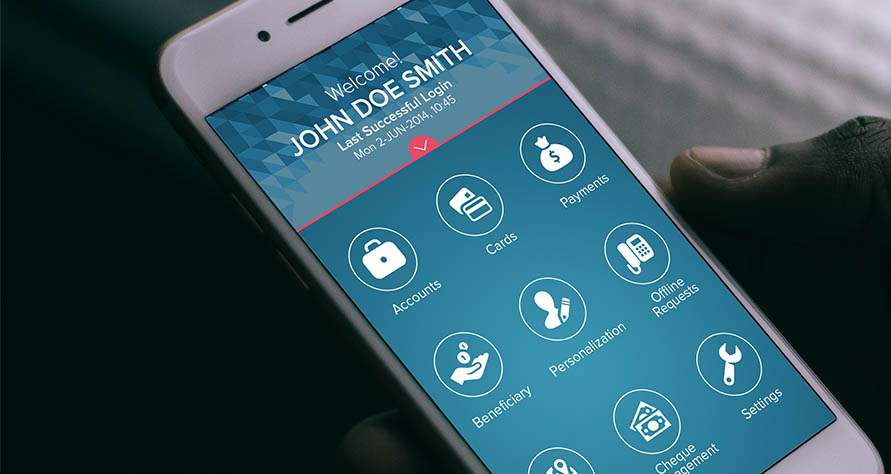
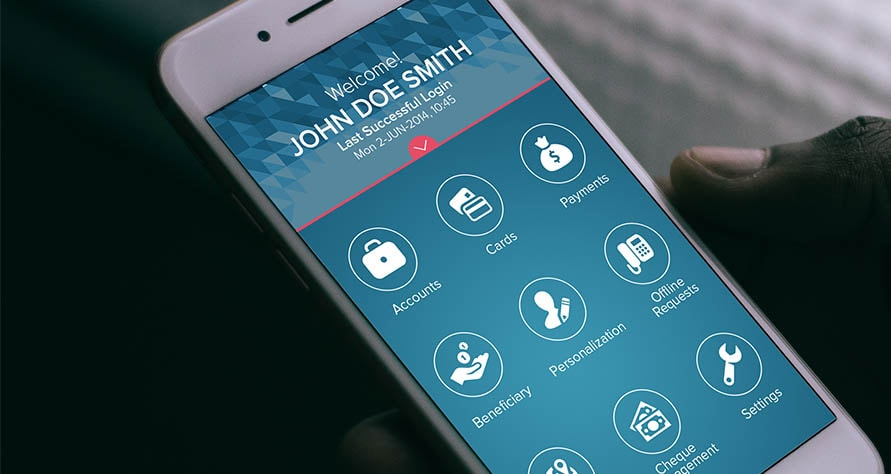
Compressed the side bar images. Implemented the redirect functionality of the sidebar

diff --git a/index.html b/index.html
@@ -114,10 +114,10 @@
                             dislike posts in a group. Users can also make a guess on a particular post about the person
                             who posted it. If it's correct user will get reward points.
                         </p>
-                        <h5>Participation</h5>
+                        <!--<h5>Participation</h5>
                         <p>
                             Researcher, Interaction Designer, UI Designer, Motion Designer
-                        </p>
+                        </p>-->
                         <button class="bn-btn light" data-view-process data-detail-page="alibi-detail-page">View Process</button>
                     </div>
                     <div class="media">
@@ -136,10 +136,10 @@
                             Best hotels is the re-design of a popular accommodation website "Bookings.com". This website
                             is the part of my course work for Interactive Web Design 715.
                         </p>
-                        <h5>Participation</h5>
+                        <!--<h5>Participation</h5>
                         <p>
                             Interaction Designer, UI Designer, Researcher
-                        </p>
+                        </p>-->
                         <button class="bn-btn light">View Process</button>
                     </div>
                     <div class="media">
@@ -159,10 +159,10 @@
                             utility bills, cheques, cards and online transfers. User can also search for the nearest
                             ATM locations.
                         </p>
-                        <h5>Participation</h5>
+                        <!--<h5>Participation</h5>
                         <p>
                             Interaction Designer, UI Designer, Researcher
-                        </p>
+                        </p>-->
                         <button class="bn-btn light" data-view-process data-detail-page="ambit-detail-page">View Process</button>
                     </div>
                     <div class="media">
@@ -181,10 +181,10 @@
                             Best hotels is the re-design of a popular accommodation website "Bookings.com". This website
                             is the part of my course work for Interactive Web Design 715.
                         </p>
-                        <h5>Participation</h5>
+                        <!--<h5>Participation</h5>
                         <p>
                             Interaction Designer, UI Designer, Researcher
-                        </p>
+                        </p>-->
                         <button class="bn-btn light" data-view-process data-detail-page="booking-detail-page">View Process</button>
                     </div>
                     <div class="media">
@@ -203,10 +203,10 @@
                             Tour North is a one page responsive website depicting my beautiful journey to the
                             amazing valleys of Pakistan.
                         </p>
-                        <h5>Participation</h5>
+                        <!--<h5>Participation</h5>
                         <p>
                             Interaction Designer, UI Designer, Researcher
-                        </p>
+                        </p>-->
                         <button class="bn-btn light">View Process</button>
                     </div>
                     <div class="media">
@@ -218,6 +218,7 @@
             </div>
         </div>
 
+        <!-- Container for the details of each portfolio -->
         <div class="detail-page">
 
         </div>
@@ -235,11 +236,11 @@
             </ul>
         </div>
         <div class="left-link">
-            <a data-jump data-destination="about-page" data-source="works-page">Go to About</a>
+            <a data-jump data-destination="about-page" data-source="works-page" data-restart-slides>Go to About</a>
         </div>
     </nav>
     <div class="back-to-home">
-        <button class="bn-arrow-circle left" data-link data-destination="background-container" data-source="works-page">
+        <button class="bn-arrow-circle left" data-link data-destination="background-container" data-source="works-page" data-restart-slides>
             <span class="fa fa-angle-left"></span>
         </button>
     </div>
@@ -258,7 +259,7 @@
     </div>
     <div class="side-bar">
         <div id="scrollstyle-3" class="side-bar-content">
-            <div class="side-bar-item">
+            <div class="side-bar-item" data-view-process data-detail-page="alibi-detail-page">
                 <img src="img/portfolio/alibi/alibi-sidebar.jpg">
                 <div class="overlay-container">
                     <div class="overlay"></div>
@@ -267,6 +268,14 @@
                 </div>
             </div>
             <div class="side-bar-item">
+                <img src="img/portfolio/riverstreet/riverstreet-sidebar.jpg">
+                <div class="overlay-container">
+                    <div class="overlay"></div>
+                    <h6>River Street</h6>
+                    <p>Responsive Website for the Savannah River Street</p>
+                </div>
+            </div>
+            <div class="side-bar-item" data-view-process data-detail-page="ambit-detail-page">
                 <img src="img/portfolio/ambit/ambit-sidebar.jpg">
                 <div class="overlay-container">
                     <div class="overlay"></div>
@@ -274,21 +283,22 @@
                     <p>Online mobile banking app</p>
                 </div>
             </div>
-            <div class="side-bar-item">
+            <div class="side-bar-item" data-view-process data-detail-page="booking-detail-page">
                 <img src="img/portfolio/bookings/hotel-sidebar.jpg">
                 <div class="overlay-container">
                     <div class="overlay"></div>
                     <h6>Best Hotels</h6>
-                    <p>Redesign of Hotel reservation website</p>
+                    <p>Hotel reservation website</p>
                 </div>
             </div>
             <div class="side-bar-item">
-
+                <img src="img/portfolio/tournorth/tournorth-sidebar.jpg">
+                <div class="overlay-container">
+                    <div class="overlay"></div>
+                    <h6>Tour North</h6>
+                    <p>A Journey to the North of Pakistan</p>
+                </div>
             </div>
-            <div class="side-bar-item">
-
-            </div>
-
         </div>
     </div>
     <div class="page-number">

diff --git a/js/main.js b/js/main.js
@@ -117,8 +117,11 @@ $(document).ready(function() {
 
     $('.parallex-item').parallax();
 
-    $('[data-view-process]').click(function(event) {
+    $('[data-view-process]').click(function(e) {
+        e.stopPropagation();
+
         var dest = $(this).data('detail-page');
+
         loadTemplate(dest);
         $("body").addClass("detail-page-open");
         //Enable work page scrolling
@@ -126,8 +129,10 @@ $(document).ready(function() {
         $(".detail-page").fadeIn();
         $(".logo-light").fadeOut(function(){
             $(".visible-detail-page").fadeIn();
+            closeSideBar();
+            $(".list-of-projects").removeClass("close");
         });
-
+        $(".list-of-projects").removeClass("close");
     });
 
     $(".back-to-home.visible-detail-page").click(function(){
@@ -138,11 +143,28 @@ $(document).ready(function() {
         $(".detail-page").fadeOut();
         $("body").removeClass("detail-page-open");
     });
+
+    $('[data-restart-slides]').click(function(event) {
+        setTimeout(function(){
+            $(".page-number .current-page").html("1");
+            $.fn.fullpage.silentMoveTo(1);
+        }, 1000);
+    });
+
+    /*$(".side-bar .side-bar-item").click(function(){
+        var dest = $(this).data('destination');
+    });*/
 });
 
 
 $(document).on('click', '.list-of-projects.close .circle', function()
 {
+    //Enable work page scrolling
+    closeSideBar();
+
+});
+
+function closeSideBar(){
     //Enable work page scrolling
     $.fn.fullpage.setAllowScrolling(true);
 
@@ -151,8 +173,7 @@ $(document).on('click', '.list-of-projects.close .circle', function()
         $("body").removeClass("opensidebar");
         $(".side-bar-overlay").fadeOut(500);
     }, 300);
-
-});
+}
 
 function loadTemplate(temp) {
     var templateURL     = 'tpl/' + temp + ".html",
